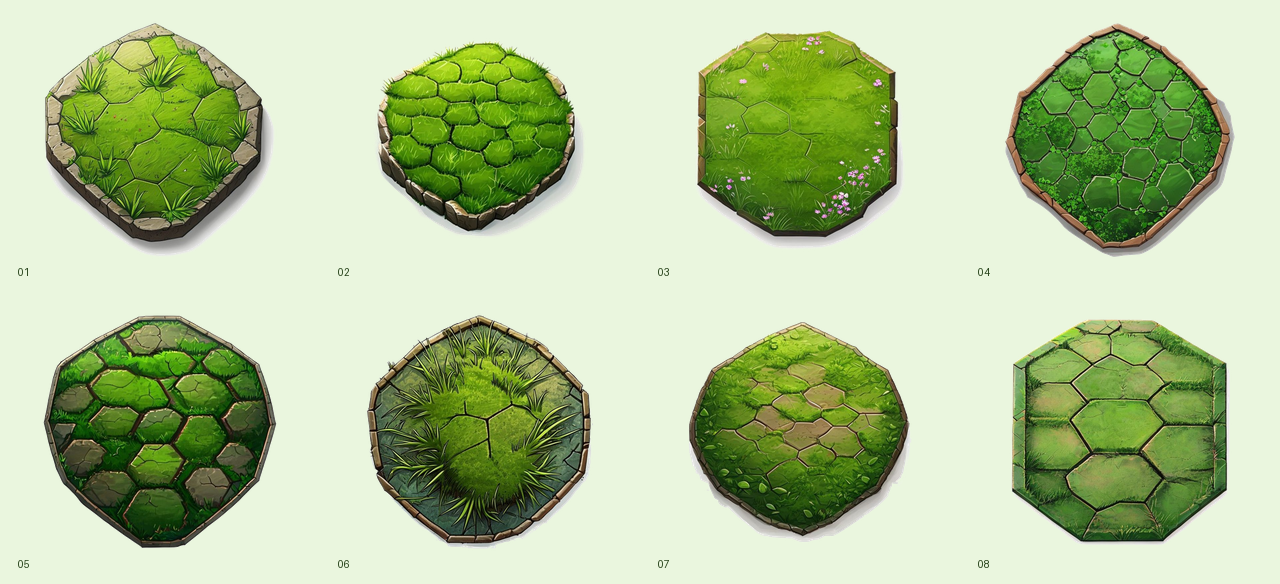
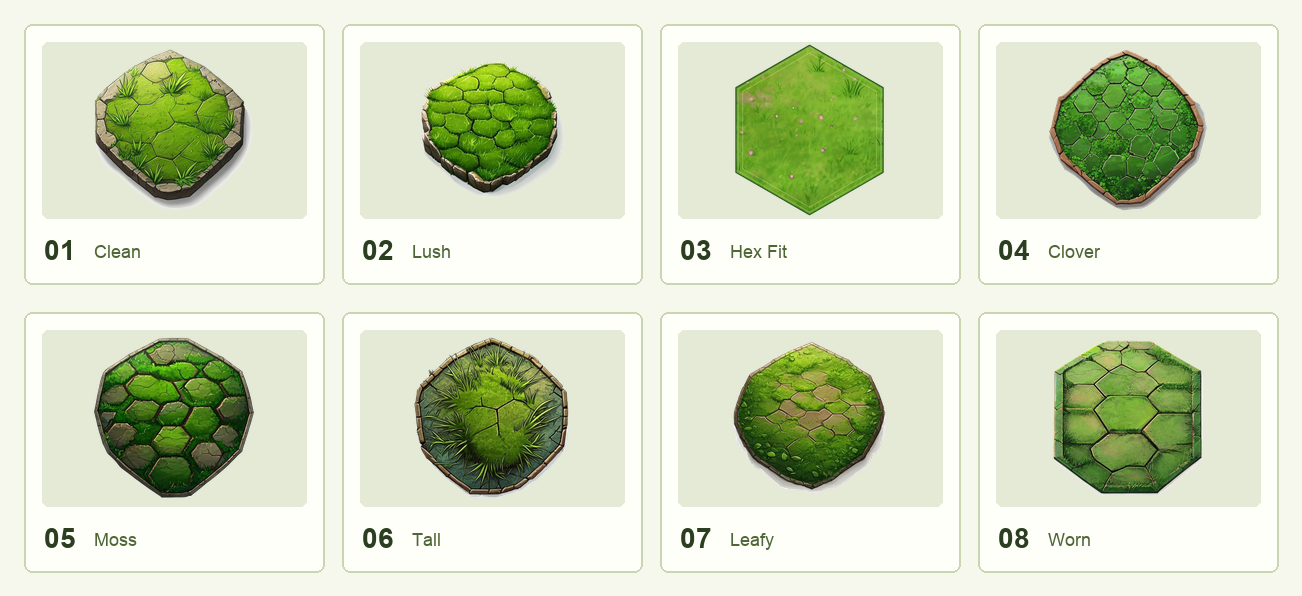
Add strict hex grass tile candidate

diff --git a/grass-tile-casting-board.html b/grass-tile-casting-board.html
@@ -280,7 +280,7 @@
       <section class="board-preview" aria-label="풀 타일 믹스 프리뷰">
         <img src="assets/casting/tiles/grass/grass-tile-01-clean.png" alt="" />
         <img src="assets/casting/tiles/grass/grass-tile-02-lush.png" alt="" />
-        <img src="assets/casting/tiles/grass/grass-tile-03-flowers.png" alt="" />
+        <img src="assets/casting/tiles/grass/grass-tile-03-flowers-hexfit.png" alt="" />
         <img src="assets/casting/tiles/grass/grass-tile-04-clover.png" alt="" />
         <img src="assets/casting/tiles/grass/grass-tile-05-moss.png" alt="" />
         <img src="assets/casting/tiles/grass/grass-tile-06-tall-grass.png" alt="" />
@@ -313,11 +313,11 @@
 
         <article>
           <figure>
-            <div class="tile-stage"><img src="assets/casting/tiles/grass/grass-tile-03-flowers.png" alt="작은 꽃이 있는 풀 타일" /></div>
+            <div class="tile-stage"><img src="assets/casting/tiles/grass/grass-tile-03-flowers-hexfit.png" alt="정육각형으로 보정한 꽃 풀 타일" /></div>
             <figcaption>
-              <div class="row"><span class="number">03</span><span class="tag">Flower</span></div>
-              <h2>꽃 가장자리</h2>
-              <p class="note">꽃과 숲 가장자리 느낌이 들어간 후보. 외곽 지형이나 포인트 칸에 적합합니다.</p>
+              <div class="row"><span class="number">03</span><span class="tag">Hex Fit</span></div>
+              <h2>꽃 가장자리 정육각</h2>
+              <p class="note">선택한 3번 방향의 풀/꽃 질감을 정육각 템플릿에 맞춘 보정본입니다. 실제 플레이용 타일 기준에 가장 가깝습니다.</p>
             </figcaption>
           </figure>
         </article>
@@ -379,7 +379,7 @@
       </section>
 
       <footer>
-        <span>768x768 PNG, 독립 생성 풀 타일 후보</span>
+        <span>01/02/04-08은 768x768 PNG 후보, 03은 768x886 정육각 템플릿 보정본</span>
         <a href="index.html">게임으로 돌아가기</a>
       </footer>
     </main>